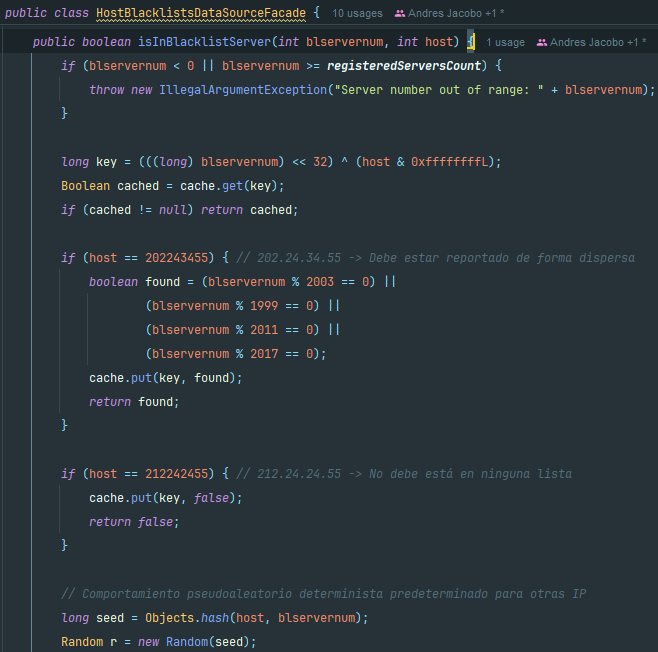
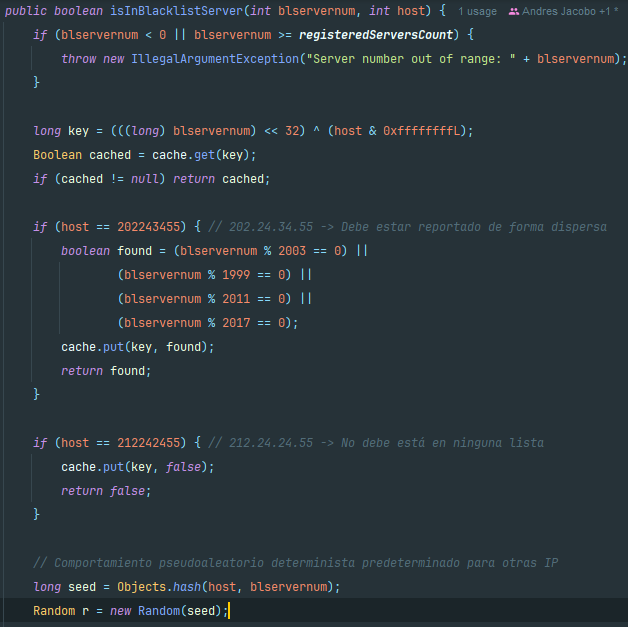
Update README.md and add Comments

diff --git a/src/main/java/edu/eci/arsw/blacklistvalidator/HostBlackListsValidator.java b/src/main/java/edu/eci/arsw/blacklistvalidator/HostBlackListsValidator.java
@@ -9,7 +9,7 @@ import java.util.logging.Logger;
 
 /**
  * Validator paralelo: checkHost(String host, int N)
- * - divide el espacio de servidores en N particiones (reparte el resto a las primeras)
+ * - divide el espacio de servidores en N particiones
  * - lanza N HostSearchThread
  * - espera con join()
  * - agrega los resultados y decide reportar
@@ -42,7 +42,6 @@ public class HostBlackListsValidator {
         HostBlacklistsDataSourceFacade skds = HostBlacklistsDataSourceFacade.getInstance();
         int registeredServers = skds.getRegisteredServersCount();
 
-        // sanitize N
         if (N <= 0) N = 1;
         if (N > registeredServers) N = registeredServers;
 
@@ -119,8 +118,8 @@ public class HostBlackListsValidator {
     private static class HostSearchThread extends Thread {
 
         private final int id;
-        private final int start;   // inclusivo
-        private final int end;     // exclusivo
+        private final int start;
+        private final int end;
         private final int hostInt;
         private final HostBlacklistsDataSourceFacade skds;
         private final AtomicInteger ocurrencesCountShared;
@@ -146,7 +145,7 @@ public class HostBlackListsValidator {
             // Recorre el sub-rango y comprueba la condición global para terminar temprano
             for (int i = start; i < end && ocurrencesCountShared.get() < BLACK_LIST_ALARM_COUNT; i++) {
                 boolean found = skds.isInBlacklistServer(i, hostInt);
-                // Incrementa el contador de verificados solo cuando realmente verificamos
+                // Incrementa el contador de verificados
                 checkedListsCountShared.incrementAndGet();
 
                 if (found) {
@@ -156,13 +155,6 @@ public class HostBlackListsValidator {
             }
         }
 
-        public int getOcurrencesCount() {
-            return foundLists.size();
-        }
-
-        /**
-         * Lista de índices donde este hilo encontró el host
-         */
         public List<Integer> getFoundLists() {
             return foundLists;
         }

diff --git a/src/main/java/edu/eci/arsw/spamkeywordsdatasource/HostBlacklistsDataSourceFacade.java b/src/main/java/edu/eci/arsw/spamkeywordsdatasource/HostBlacklistsDataSourceFacade.java
@@ -49,8 +49,8 @@ public class HostBlacklistsDataSourceFacade {
         long seed = Objects.hash(host, blservernum);
         Random r = new Random(seed);
 
-        int baseThreshold = 7; // ~7% por servidor
-        int bias = Math.max(0, 5 - (blservernum / 1000)); // probabilidad ligeramente mayor en servidores de índice pequeño
+        int baseThreshold = 7;
+        int bias = Math.max(0, 5 - (blservernum / 1000));
         int threshold = baseThreshold + bias;
 
         int chance = r.nextInt(100);
